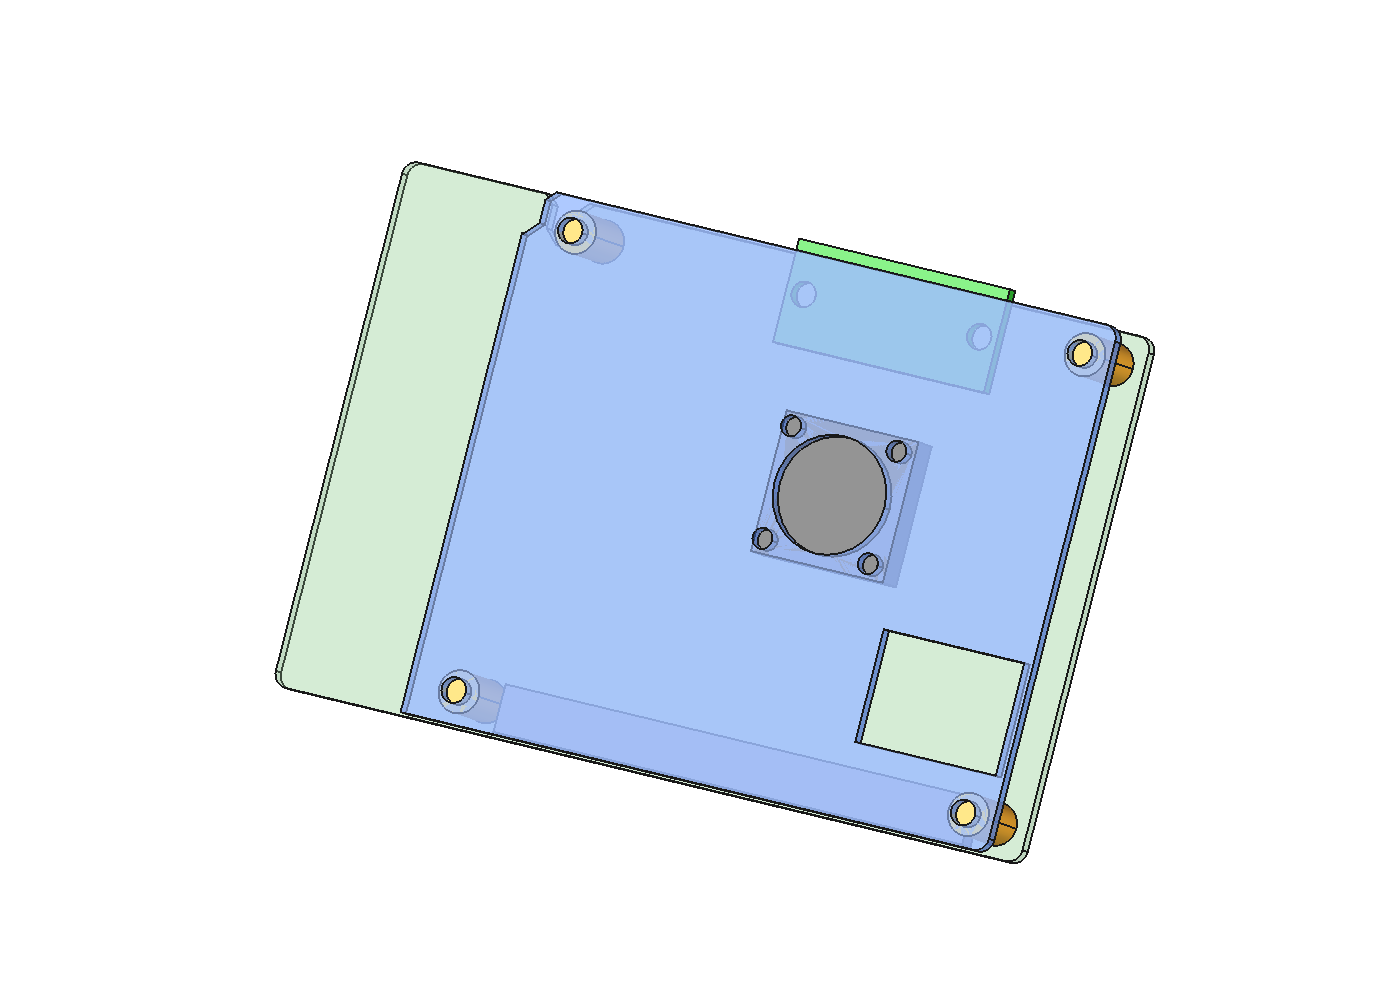
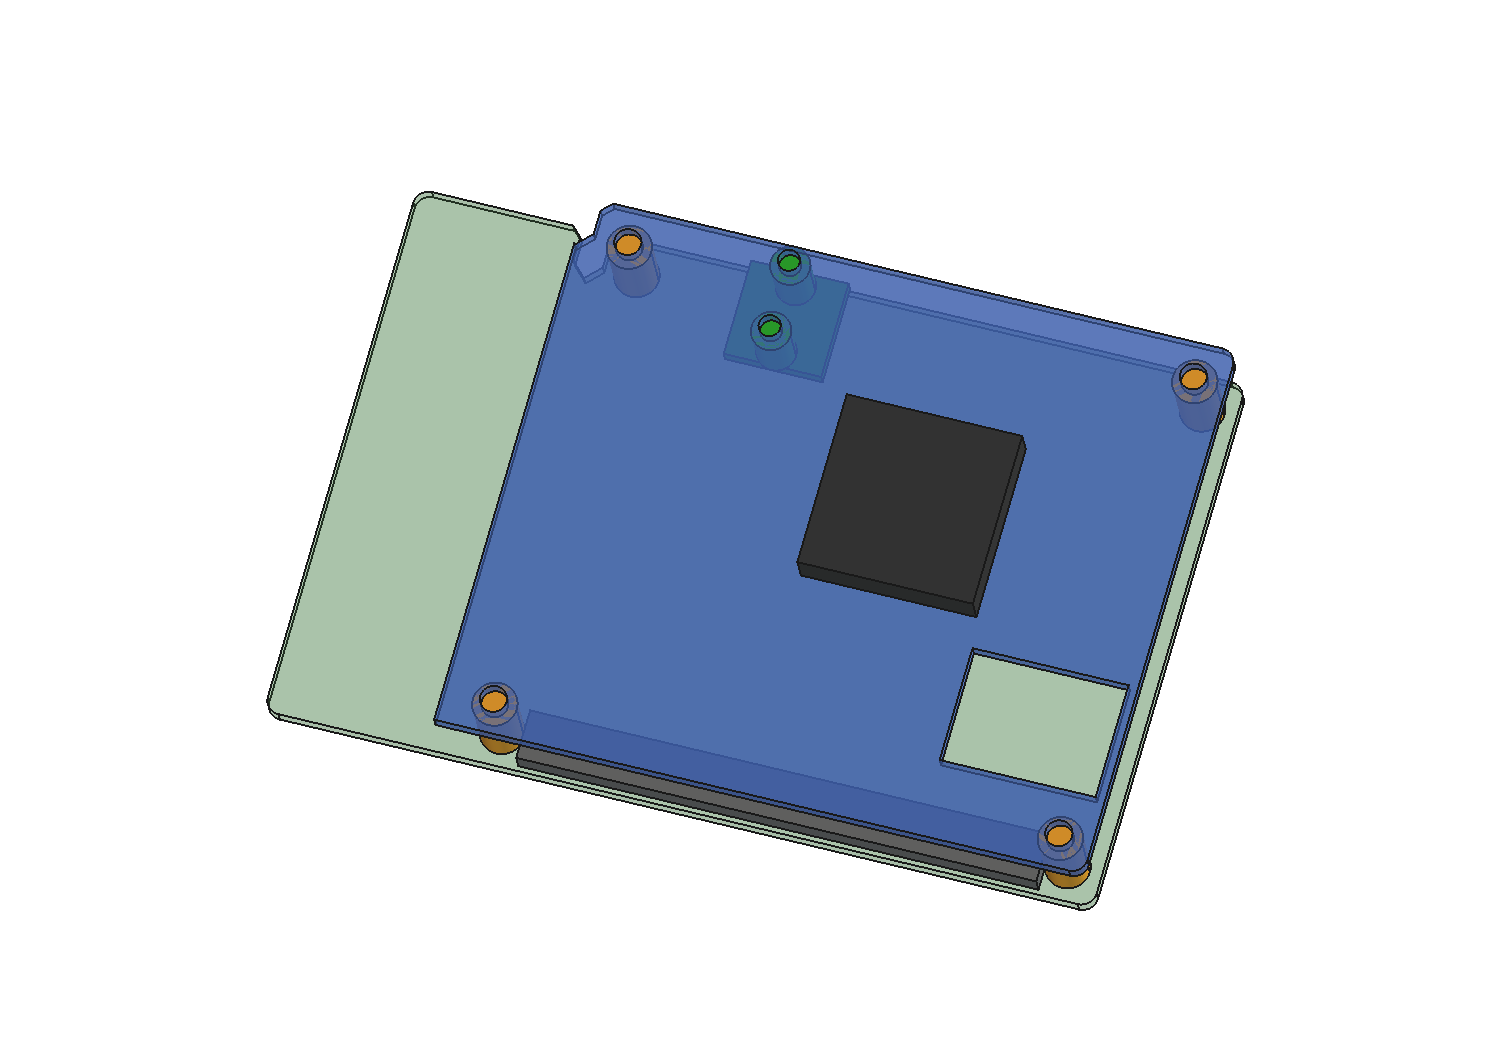
mechanical: M2 adapter screws, fan on the top face of the plate
CAM1 adapter now uses M2 (Dia2.2) + M2 nylon spacers; the 18x18x4 fan moves to the plate's component side so the SoC keeps its aluminium heatsink clearance underneath. Clash check vs STEP: 0.

diff --git a/mechanical/lbc3_hat/model.py b/mechanical/lbc3_hat/model.py
@@ -41,7 +41,9 @@ MOUNT_HOLE_D = 2.6
 
 PLATE_T = 1.6
 GAP = 8.5                 # PCB top -> plate bottom (= 40-pin mated height)
-M25_CLEAR_D = 2.7
+M25_CLEAR_D = 2.7         # 4x board mount screws (board holes are Dia2.6)
+M2_CLEAR_D = 2.2          # CAM1 adapter screws
+M2_SPACER_OD = 4.0
 
 # Plate footprint: cut away the left edge so the Ethernet stays reachable.
 PLATE_X_MIN = 18.4        # right edge of the HR911130A jack
@@ -62,8 +64,8 @@ CAM1_H = 0.77
 ADAPTER_L, ADAPTER_W, ADAPTER_T = 10.0, 10.0, 1.6
 ADAPTER_CX, ADAPTER_CY = 39.45, 51.0
 ADAPTER_Z0 = CAM1_H              # sits on top of the socket
-ADAPTER_HOLE_SPAN = 3.5          # the two M2.5 holes, along board y
-ADAPTER_HOLE_D = 2.7
+ADAPTER_HOLE_SPAN = 3.5          # the two M2 holes, along board y
+ADAPTER_HOLE_D = M2_CLEAR_D
 
 NOTCH = [(16.0, 56.0), (17.0, 55.0), (17.0, 52.5), (18.5, 51.0),
          (20.0, 52.5), (20.0, 55.0), (21.0, 56.0), (21.0, 57.5), (16.0, 57.5)]
@@ -132,10 +134,10 @@ def build_adapter():
 
 
 def build_adapter_spacers():
-    """M2.5 nylon spacers between the plate underside and the adapter board."""
+    """M2 nylon spacers between the plate underside and the adapter board."""
     z0 = ADAPTER_Z0 + ADAPTER_T
     return [cyl(ADAPTER_CX, ADAPTER_CY + sy * ADAPTER_HOLE_SPAN, z0,
-                M25_CLEAR_D + 1.8, GAP - z0) for sy in (-1, 1)]
+                M2_SPACER_OD, GAP - z0) for sy in (-1, 1)]
 
 
 def build_standoffs():
@@ -175,9 +177,10 @@ def build(doc_name="lbc3_hat"):
     hdr = Part.makeBox(HDR_COLS * HDR_PITCH + 2 * HDR_BODY_PAD, 5.08, 2.5,
                        Vector(HDR_X0 - HDR_PITCH / 2 - HDR_BODY_PAD, HDR_ROWS_Y[0] - 1.27, 0))
     show(hdr, "REF_header40_male", COL_HDR, doc)
+    # 18x18x4 fan sits on the TOP (component) side of the plate
     fan = Part.makeBox(FAN_U, FAN_U, FAN_THK,
-                       Vector(FAN_CX - FAN_U / 2, FAN_CY - FAN_U / 2, GAP - FAN_THK))
-    show(fan, "REF_fan15", COL_FAN, doc)
+                       Vector(FAN_CX - FAN_U / 2, FAN_CY - FAN_U / 2, GAP + PLATE_T))
+    show(fan, "REF_fan18", COL_FAN, doc)
 
     show(build_plate(), "TOP_plate", COL_PLATE, doc, 40)
     show(build_adapter(), "B2B_adapter", COL_ADAPTER, doc)
